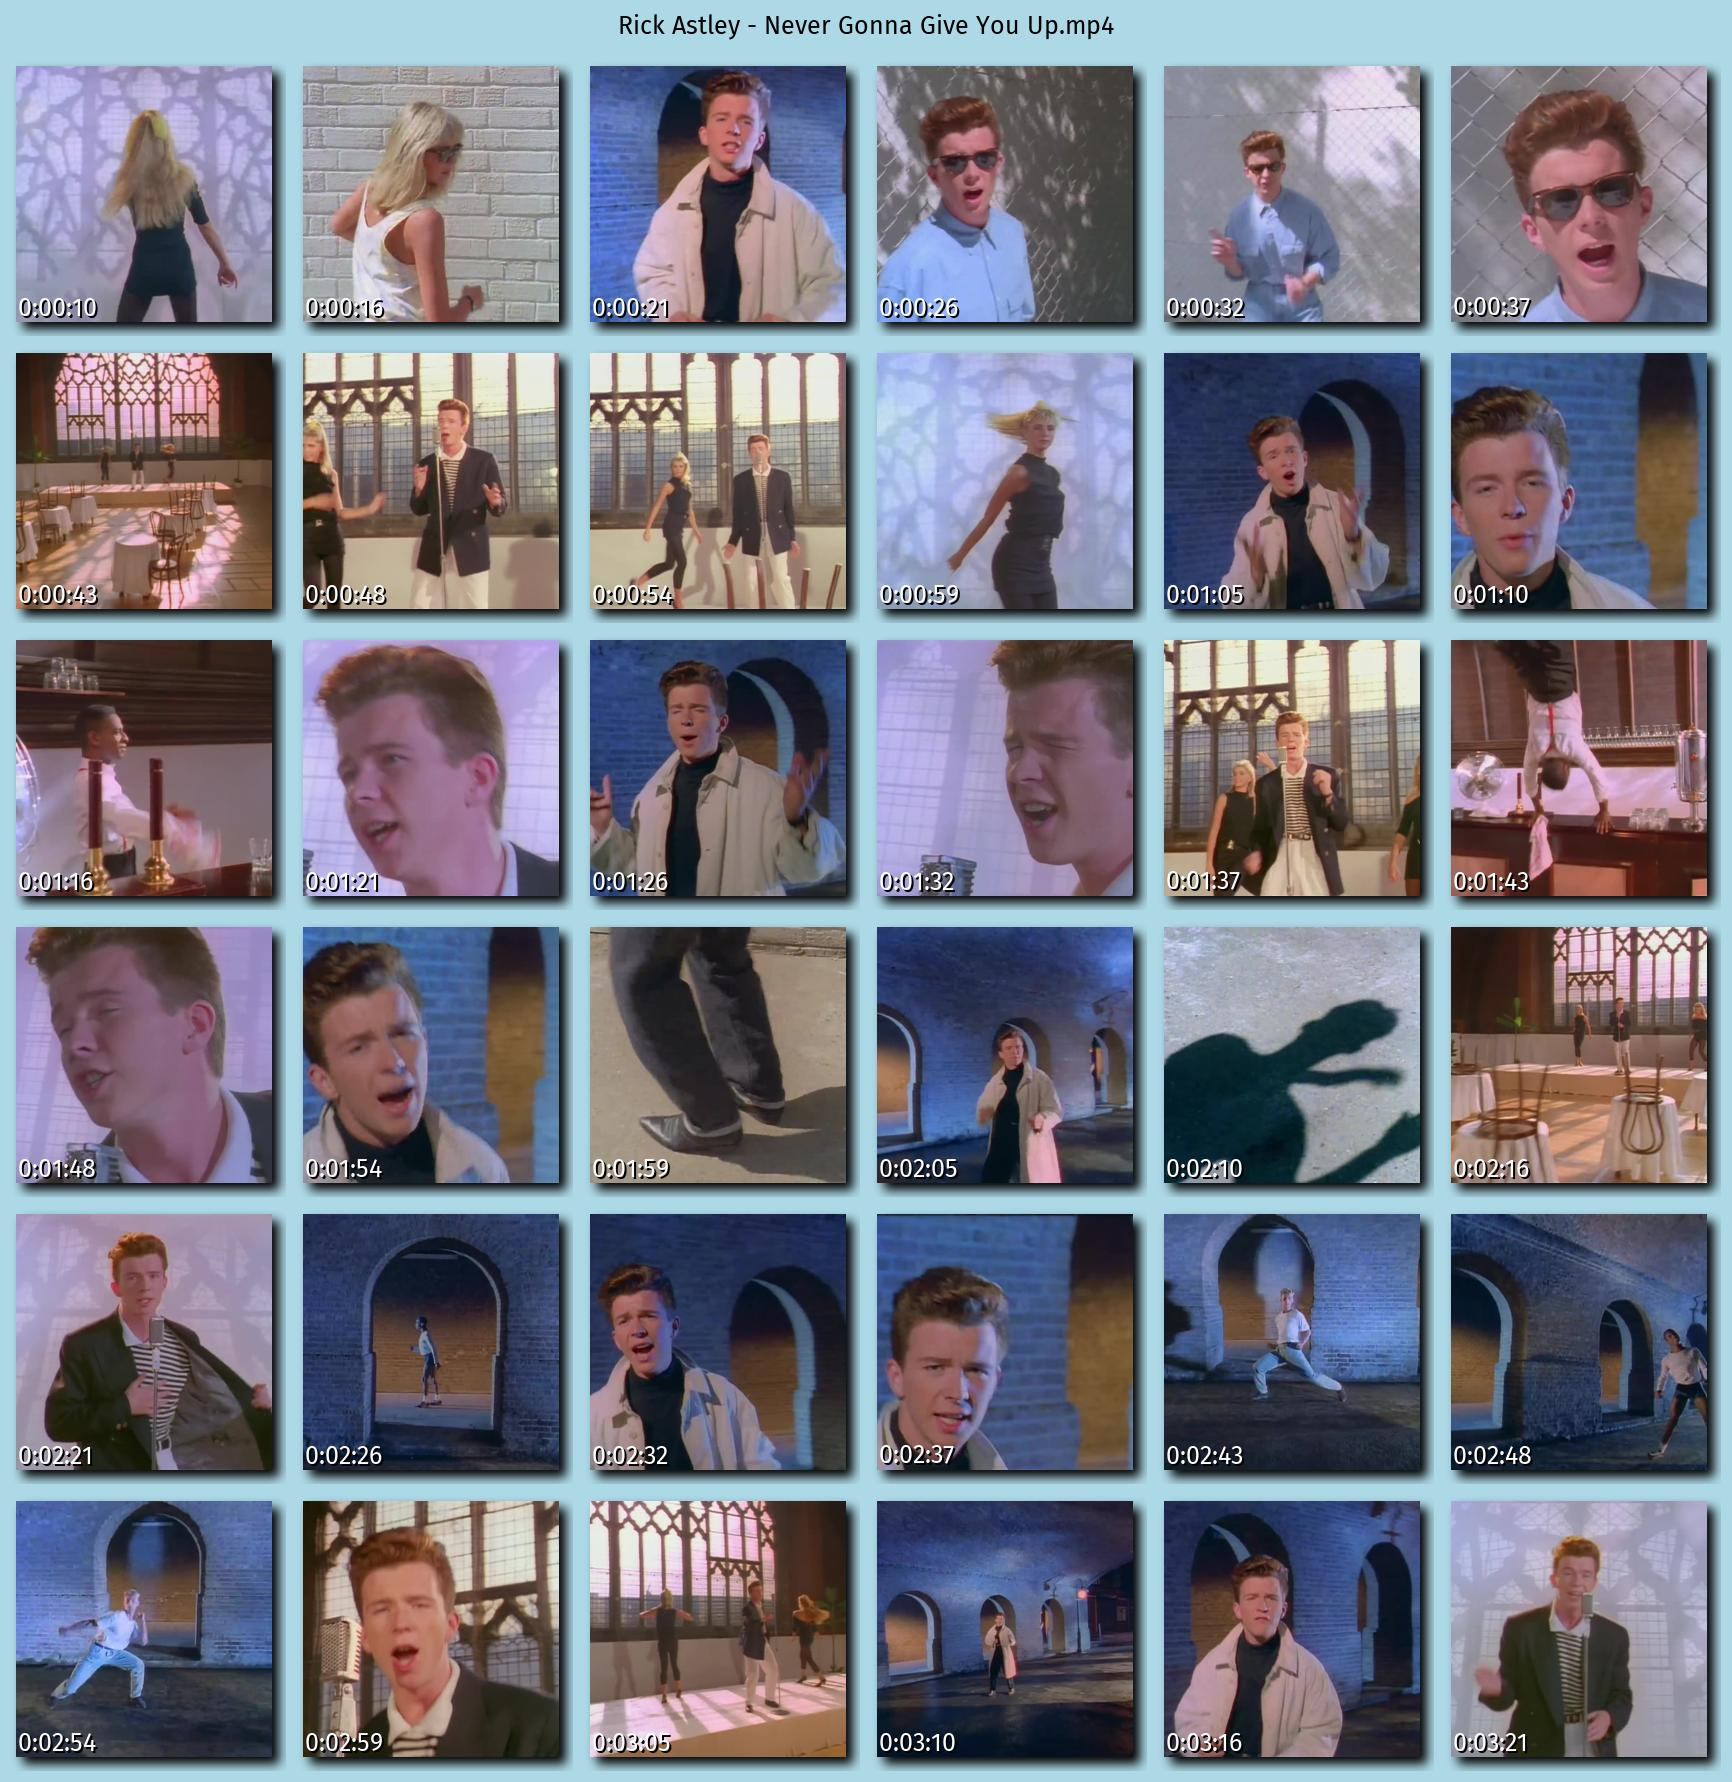
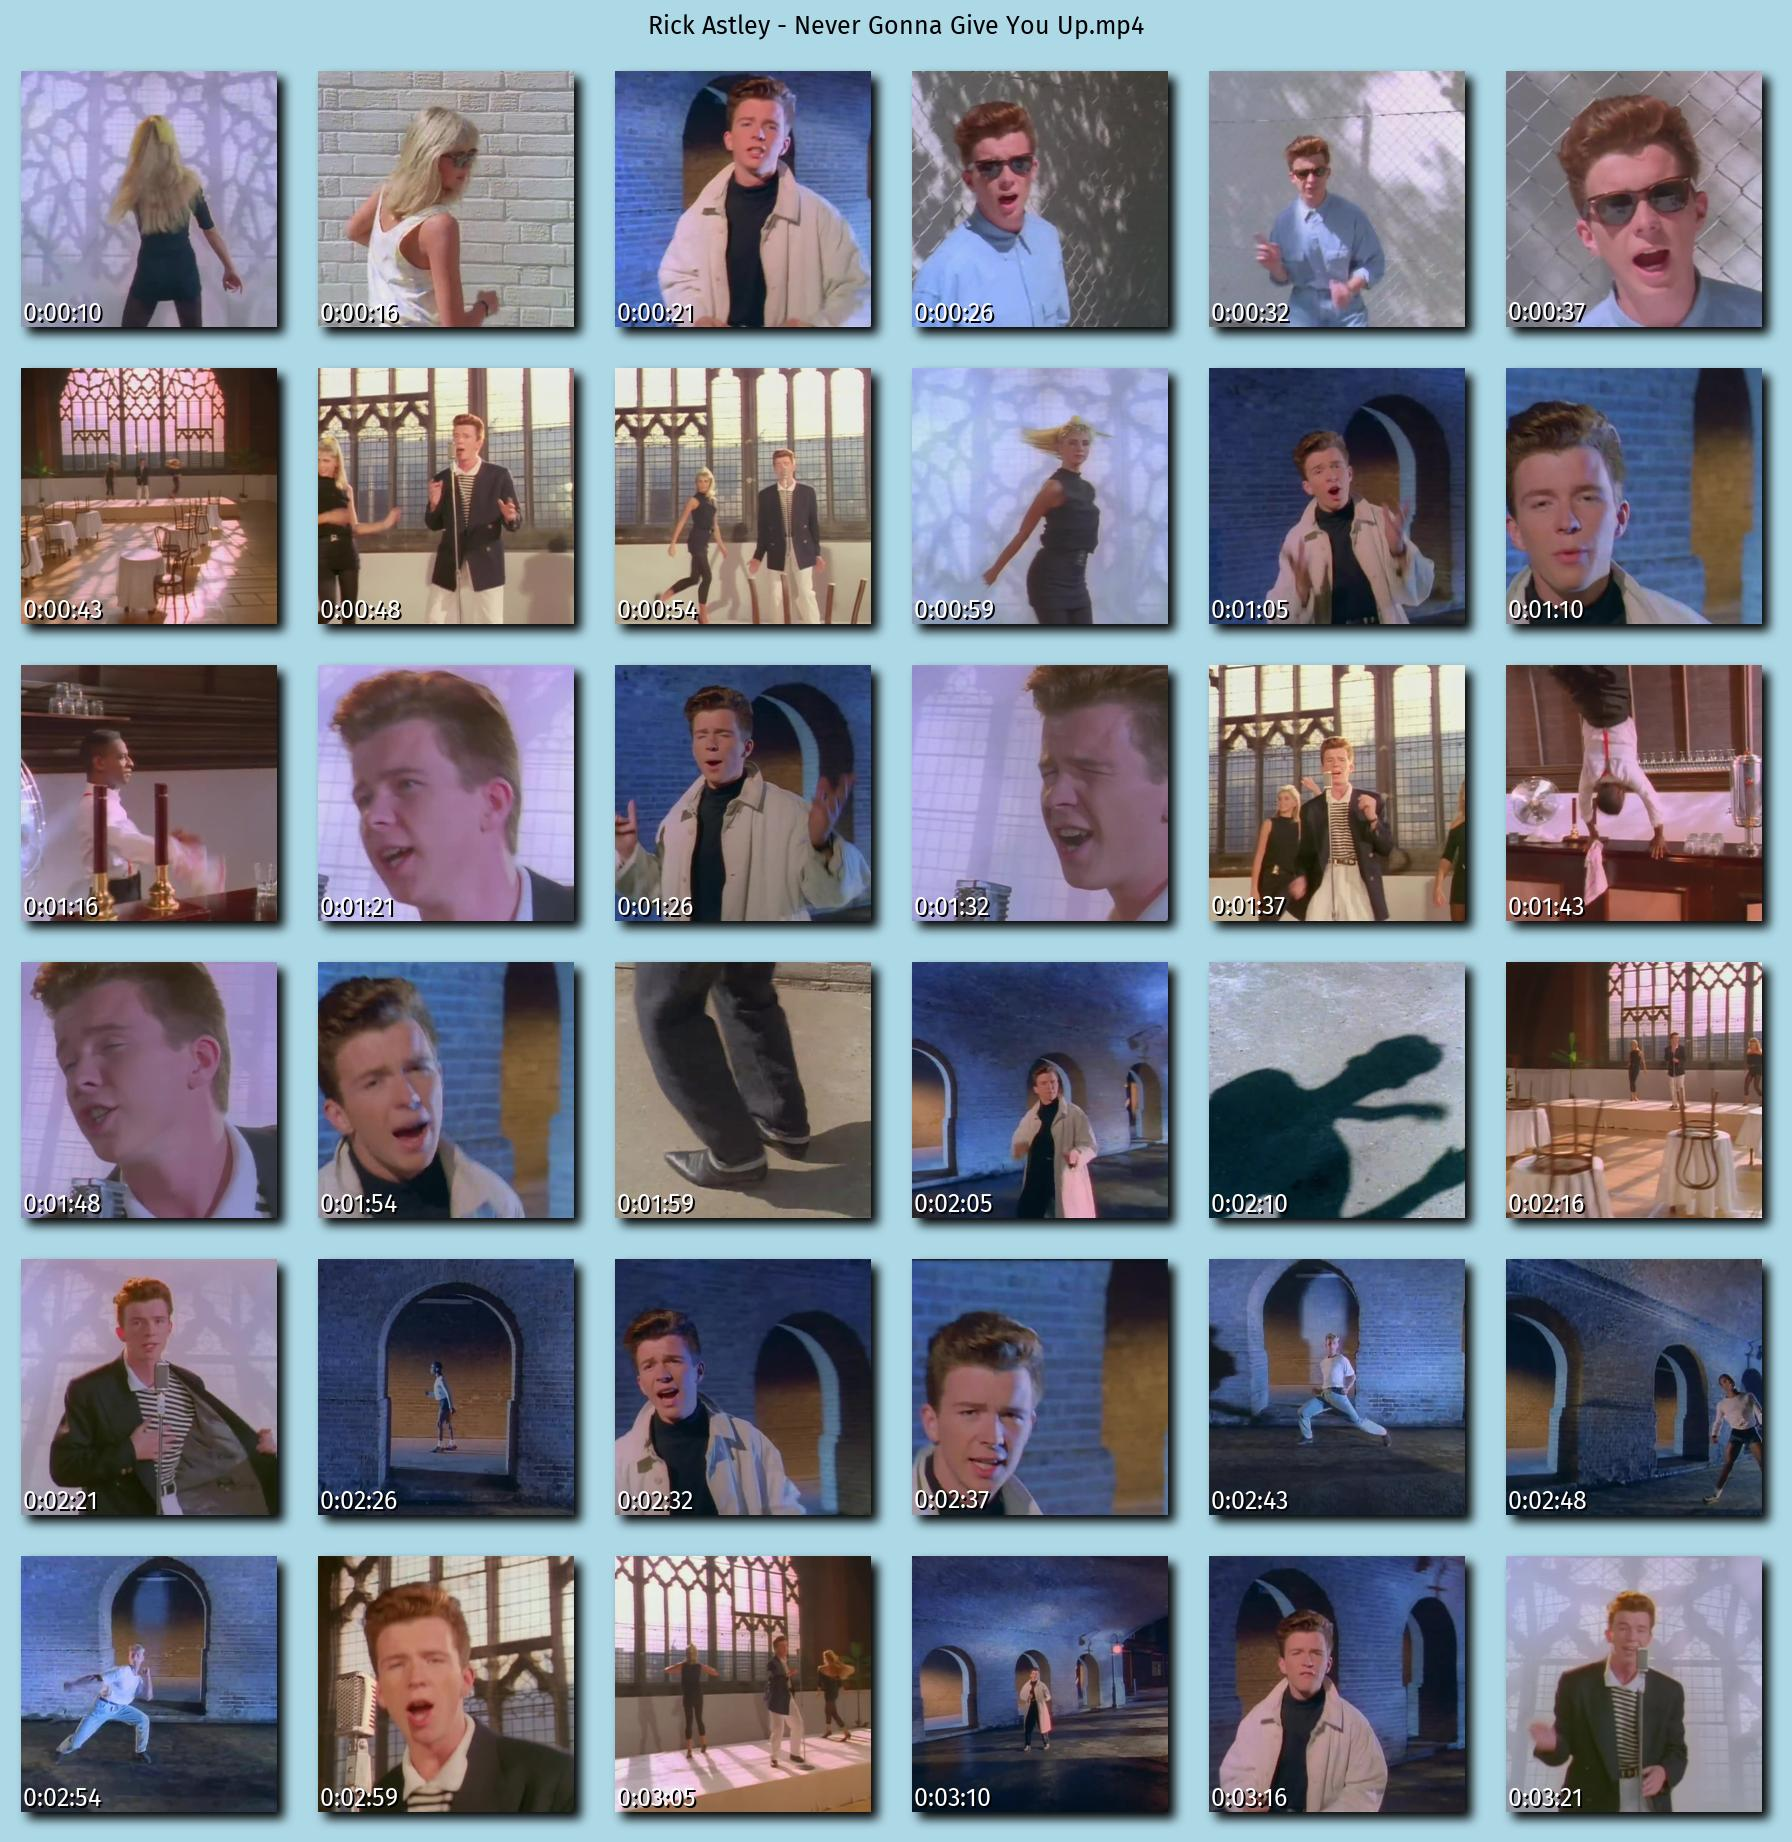
⚡ Better polaroid filter
- update CLI for simple resize/crop operations
- update doc

diff --git a/previewer/cli.py b/previewer/cli.py
@@ -24,6 +24,7 @@ from .filters import (
     MultiFilters,
     Polaroid,
     Resize,
+    Rotation,
     Shadow,
 )
 from .font import list_fira_variants, load_fira_font
@@ -33,7 +34,7 @@ from .resolution import resolution_parse
 from .utils import color_str, save_img
 from .video import Position, get_video_duration
 
-DEFAULT_THUMBNAIL_SIZE = "640x480"
+DEFAULT_THUMBNAIL_SIZE = "400x400"
 
 
 @contextmanager
@@ -49,6 +50,18 @@ def parser_group(
 def fix_hex_color(value: str) -> str:
     matcher = re.fullmatch(r"[0-9a-f]{6}", value, flags=re.IGNORECASE)
     return value if matcher is None else f"#{value}"
+
+
+def parse_resize(size: str) -> DummyFilter:
+    return Resize(resolution_parse(size))
+
+
+def parse_crop(size: str) -> DummyFilter:
+    return CropFill(resolution_parse(size))
+
+
+def parse_cropfit(size: str) -> DummyFilter:
+    return CropFit(resolution_parse(size))
 
 
 def run():
@@ -119,8 +132,8 @@ def run():
             help="add timestamp to extracted frames",
         )
 
-    ## Montage options
-    with parser_group(parser, name="montage options") as group:
+    ## Effects options
+    with parser_group(parser, name="effects", exclusive=True) as group:
         group.add_argument(
             "--polaroid",
             action=BooleanOptionalAction,
@@ -131,6 +144,9 @@ def run():
             action=BooleanOptionalAction,
             help="add shadow to thumbnails",
         )
+
+    ## Montage options
+    with parser_group(parser, name="montage options") as group:
         group.add_argument(
             "-b",
             "--background",
@@ -154,37 +170,30 @@ def run():
         )
 
     ## Geometry
-    with parser_group(parser, name="thumbnails options") as group:
+    with parser_group(parser, name="resize options", exclusive=True) as group:
         group.add_argument(
             "-s",
-            "--size",
-            type=resolution_parse,
-            metavar="WIDTHxHEIGHT",
+            "--resize",
+            type=lambda t: Resize(resolution_parse(t)),
             default=DEFAULT_THUMBNAIL_SIZE,
-            help=f"thumbnail size (default is {DEFAULT_THUMBNAIL_SIZE})",
+            dest="resize",
+            metavar="WIDTHxHEIGHT",
+            help=f"resize thumbnails (default is {DEFAULT_THUMBNAIL_SIZE})",
         )
         group.add_argument(
             "--crop",
-            action=BooleanOptionalAction,
-            default=False,
+            type=lambda t: CropFill(resolution_parse(t)),
+            dest="resize",
+            metavar="WIDTHxHEIGHT",
             help="crop thumbnails",
         )
-        with parser_group(group, exclusive=True) as xgroup:
-            xgroup.add_argument(
-                "--fill",
-                action="store_const",
-                dest="fill",
-                const=True,
-                default=True,
-                help="fill thumbnails for crop mode",
-            )
-            xgroup.add_argument(
-                "--fit",
-                action="store_const",
-                dest="fill",
-                const=False,
-                help="fit thumbnails for crop mode",
-            )
+        group.add_argument(
+            "--crop-fit",
+            type=lambda t: CropFit(resolution_parse(t)),
+            dest="resize",
+            metavar="WIDTHxHEIGHT",
+            help="crop thumbnails and add blur background to fit the given size",
+        )
 
     ## Text options
     with parser_group(parser, name="text options") as group:
@@ -220,25 +229,22 @@ def run():
         help="folders containing images or video files",
     )
     args = parser.parse_args()
-
     orient_filter = AutoOrient()
-    resize_filter = DummyFilter()
-    if not args.crop:
-        resize_filter = Resize(args.size)
-    elif args.fill:
-        resize_filter = CropFill(args.size)
-    else:
-        resize_filter = CropFit(args.size)
+    resize_filter = args.resize
 
     post_filters = MultiFilters()
-    if args.polaroid:
-        post_filters.add(Polaroid(background_color=args.background))
     if args.shadow:
         post_filters.add(Shadow(background_color=args.background))
+    elif args.polaroid:
+        post_filters.add(Polaroid(background_color=args.background))
+        post_filters.add(Shadow(background_color=args.background))
+        post_filters.add(Rotation(15, random=True, background_color=args.background))
 
     text_font = (
         load_fira_font(
-            args.font_size if args.font_size is not None else int(args.size[1] / 10),
+            args.font_size
+            if args.font_size is not None
+            else int(resize_filter.size[1] / 10),
             variant=args.font_variant,
         )
         or ImageFont.load_default()

diff --git a/previewer/filters.py b/previewer/filters.py
@@ -1,4 +1,5 @@
 from dataclasses import dataclass, field
+from random import randrange
 from typing import List
 
 from PIL import Image, ImageEnhance, ImageFilter, ImageOps
@@ -151,14 +152,26 @@ class Shadow(DummyFilter):
 class Polaroid(DummyFilter):
     border: float = 0.05
     background_color: str = "#ffffff"
-    frame_color: str = "#fefefe"
+    frame_color: str = "#f8f6f1"
 
     def apply(self, image: Image.Image) -> Image.Image:
         border = int(min(image.size) * self.border)
         out = Image.new(
             image.mode,
-            (image.size[0] + border * 2, image.size[1] + border * 8),
+            (image.size[0] + border * 2, image.size[1] + border * 6),
             self.frame_color,
         )
         out.paste(image, (border, border))
         return out
+
+
+@dataclass
+class Rotation(DummyFilter):
+    angle: int = 0
+    expand: bool = True
+    random: bool = False
+    background_color: str = "#ffffff"
+
+    def apply(self, image: Image.Image) -> Image.Image:
+        angle = randrange(self.angle * -1, self.angle) if self.random else self.angle
+        return image.rotate(angle, expand=self.expand, fillcolor=self.background_color)

diff --git a/tests/test_pillow.py b/tests/test_pillow.py
@@ -57,4 +57,4 @@ def test_polaroid(image):
     with Image.open(image) as img:
         assert img.size == (800, 600)
         img2 = filters.Polaroid().apply(img)
-        assert img2.size == (860, 840)
+        assert img2.size == (860, 780)

diff --git a/README.md b/README.md
@@ -41,26 +41,26 @@ You can customize the generated image:
 - adjust the space between thumbnails
 - add a border, a shadow to thumbnails
 
-## Example: preview from a video
+## Example: generate a preview from a video clip
 
 We can build a preview image of a video using:
 
 ```sh
-$ previewer --crop --size 256 --shadow --background lightblue --title "samples/Rick Astley - Never Gonna Give You Up.mp4"
+$ previewer --crop 256 --shadow --title --background lightblue "samples/Rick Astley - Never Gonna Give You Up.mp4"
 🎬 Generate montage from video samples/Rick Astley - Never Gonna Give You Up.mp4 using 36 thumbnails
 🍺 Montage generated ./Rick Astley - Never Gonna Give You Up.jpg
 ```
 
 ![Video preview](images/preview-video.jpg)
 
-## Example: preview from a folder
+## Example: generate a preview from a folder containing images
 
 We can build a preview folder containing images like this:
 
 ![Folder with images](images/folder.png)
 
 ```sh
-$ previewer --columns 5 "samples/Rick Astley - Never Gonna Give You Up"
+$ previewer --columns 5 --polaroid --background b2967d "samples/Rick Astley - Never Gonna Give You Up"
 📷 Generate montage from folder samples/Rick Astley - Never Gonna Give You Up/ containing 20 images
 🍺 Montage generated ./Rick Astley - Never Gonna Give You Up.jpg
 ```
